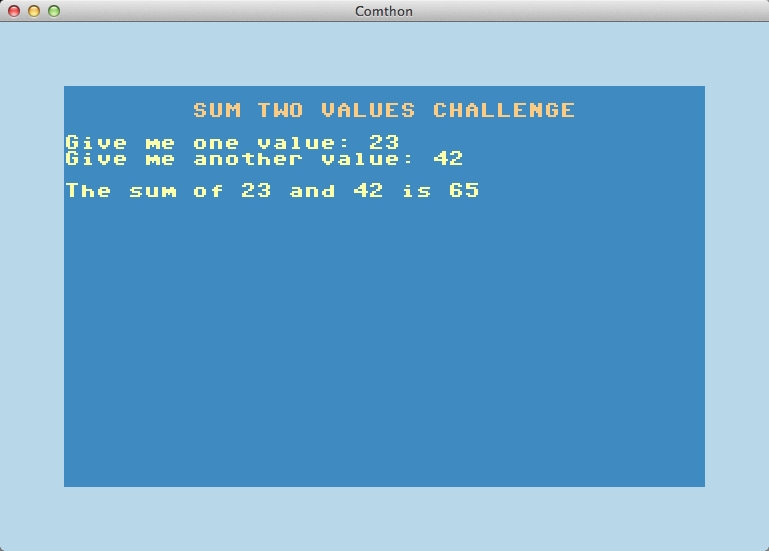
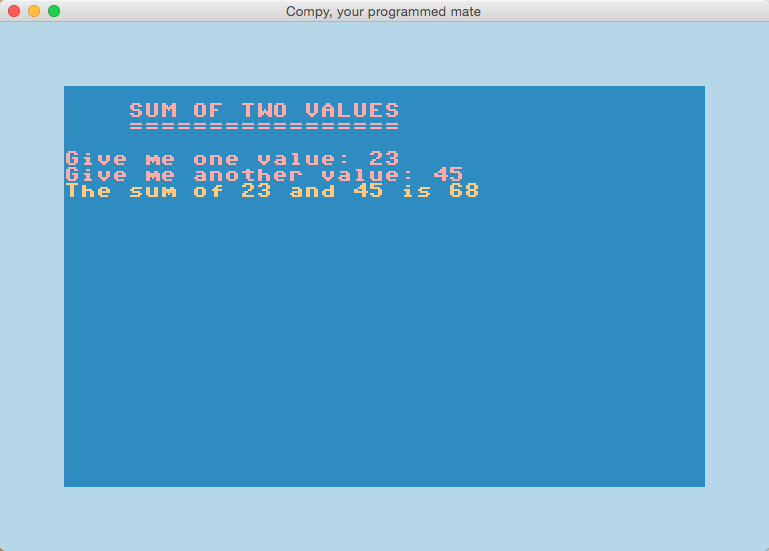
Better web output of challenges

diff --git a/docs/challenges.html b/docs/challenges.html
@@ -1,29 +1,71 @@
-<p>variables</p>
+<!DOCTYPE html>
+<html>
+<head>
+
+<meta http-equiv="Content-Type" content="text/html; charset=utf-8">
+
+<title>Page Title</title>
+
+
+</head>
+
+<body>
 
 <h1>Sum two values</h1>
 
 <p><img src="img/sum_two_values.png" alt="" /></p>
 
-<h1>Sum many values</h1>
+variables
 
-<h1>Sum two lists of values</h1>
 
-<h1>Find the minimum of two values</h1>
+<div class="highlight"><pre><span class="c">#!/usr/bin/env python</span>
+<span class="c">#  -*- coding: utf-8 -*-</span>
 
-<h1>Find max of many values</h1>
 
-<h1>Find number of vowels</h1>
+<span class="kn">from</span> <span class="nn">time</span> <span class="kn">import</span> <span class="n">sleep</span>
+<span class="kn">from</span> <span class="nn">src.run</span> <span class="kn">import</span> <span class="n">run</span>
 
-<h1>Pinta la tabla de multiplicar del número que sea</h1>
+<span class="k">def</span> <span class="nf">main</span><span class="p">(</span><span class="n">scrn</span><span class="p">):</span>
+    <span class="n">sleep</span><span class="p">(</span><span class="mi">2</span><span class="p">)</span> <span class="c"># wait two seconds</span>
+    <span class="n">scrn</span><span class="o">.</span><span class="n">clear_screen</span><span class="p">()</span>
+    <span class="n">scrn</span><span class="o">.</span><span class="n">printf</span><span class="p">()</span>
+    <span class="n">scrn</span><span class="o">.</span><span class="n">printf</span><span class="p">(</span><span class="s">&#39;    SUM OF TWO VALUES&#39;</span><span class="p">,</span> <span class="n">color</span> <span class="o">=</span> <span class="mi">4</span><span class="p">)</span>
+    <span class="n">scrn</span><span class="o">.</span><span class="n">printf</span><span class="p">(</span><span class="s">&#39;    =================&#39;</span><span class="p">)</span>
+    <span class="n">scrn</span><span class="o">.</span><span class="n">printf</span><span class="p">()</span>
+    <span class="n">value_one</span> <span class="o">=</span> <span class="n">scrn</span><span class="o">.</span><span class="n">input</span><span class="p">(</span><span class="s">&quot;Give me one value: &quot;</span><span class="p">)</span>
+    <span class="n">value_two</span> <span class="o">=</span> <span class="n">scrn</span><span class="o">.</span><span class="n">input</span><span class="p">(</span><span class="s">&quot;Give me another value: &quot;</span><span class="p">)</span>
+    <span class="n">sum_of_values</span> <span class="o">=</span> <span class="n">value_one</span> <span class="o">+</span> <span class="n">value_two</span>
+    <span class="n">scrn</span><span class="o">.</span><span class="n">printf</span><span class="p">(</span><span class="s">&#39;The sum of {} and {} is {}&#39;</span><span class="o">.</span><span class="n">format</span><span class="p">(</span>
+        <span class="n">value_one</span><span class="p">,</span> <span class="n">value_two</span><span class="p">,</span> <span class="n">sum_of_values</span><span class="p">),</span> <span class="n">color</span><span class="o">=</span><span class="mi">6</span><span class="p">)</span>
 
-<h1>10 elefantes</h1>
 
-<h1>Adivina el número</h1>
+<span class="n">run</span><span class="p">(</span><span class="n">main</span><span class="p">)</span>
+</pre></div>
 
-<h1>Pinta una progresión aritmética.</h1>
 
-<h1>Simula un dado</h1>
+# Sum many values
 
-<h1>El mediano de una lista</h1>
+# Sum two lists of values
 
-<p>#</p>
+# Find the minimum of two values
+
+# Find max of many values
+
+# Find number of vowels
+
+# Pinta la tabla de multiplicar del número que sea
+
+# 10 elefantes
+
+# Adivina el número
+
+# Pinta una progresión aritmética.
+
+# Simula un dado
+
+# El mediano de una lista
+
+#
+
+</body>
+</html>

diff --git a/src/templates/challenges.html b/src/templates/challenges.html
@@ -1,9 +1,25 @@
+<!DOCTYPE html>
+<html>
+<head>
+
+<meta http-equiv="Content-Type" content="text/html; charset=utf-8">
+
+<title>Page Title</title>
 
 
+</head>
 
-# Sum two values
+<body>
 
-![](img/sum_two_values.png)
+<h1>Sum two values</h1>
+
+<p><img src="img/sum_two_values.png" alt="" /></p>
+
+{{ prueba }}
+
+
+{% include 'sum_two_values.html' %}
+
 
 # Sum many values
 
@@ -28,3 +44,6 @@
 # El mediano de una lista
 
 #
+
+</body>
+</html>

diff --git a/src/view_wx.py b/src/view_wx.py
@@ -8,7 +8,7 @@ import wx
 from src.bitmaps import Bitmaps
 from src.create_web import make_html_challenges, take_code, TakeScreenShot
 from src.settings import NUM_COLS, NUM_ROWS, CHAR_PTS_X, CHAR_PTS_Y
-from src.settings import FRAME_PTS_X, FRAME_PTS_Y
+from src.settings import FRAME_PTS_X, FRAME_PTS_Y, TITLE
 
 ORG_ACTIVE_CNVS_X = FRAME_PTS_X
 ORG_ACTIVE_CNVS_Y = FRAME_PTS_Y
@@ -40,7 +40,6 @@ class GUIwx(wx.App):
         # Create a new app, don't redirect stdout/stderr to a window.
         self.cierra_por_esc = False
         self.pinta = None
-        self.name_of_project = ''
         wx.App.__init__(self, False)
 
     def OnInit(self):
@@ -67,7 +66,7 @@ class GUIwx(wx.App):
         frame.SetClientSize((TOTAL_CNVS_PTS_X, TOTAL_CNVS_PTS_Y))
         frame.Bind(wx.EVT_CLOSE, self.OnClose)
         frame.Move((30, 30))  # Pone la ventana arriba a la izquierda
-        frame.SetTitle('Comthon')
+        frame.SetTitle(TITLE)
         return frame
 
     def set_canvas(self, frame):
@@ -94,8 +93,8 @@ class GUIwx(wx.App):
             return
 
         if key == C_RARA:
-            TakeScreenShot(self.name_of_project, self.frame)
-            take_code(self.name_of_project)
+            take_code()
+            TakeScreenShot(self.frame)
             make_html_challenges()
             return
 
@@ -132,15 +131,11 @@ class GUIwx(wx.App):
             elif comando == 'close_window':
                 self.stop()
 
-            elif comando == 'name_of_project':
-                self.name_of_project = args[0]
-                # title = self.name_of_project.replace('_', ' ').upper()
-                # self.frame.SetTitle(title)
+            else:
+                pass
 
         if self.cierra_por_esc:
             self.stop()
-
-
 
 
 class Pinta(object):

diff --git a/src/create_web.py b/src/create_web.py
@@ -5,23 +5,26 @@ import markdown2
 from jinja2 import Environment, PackageLoader
 import wx
 import os
+import __main__
+from pygments import highlight
+from pygments.lexers import PythonLexer
+from pygments.formatters import HtmlFormatter
 
+name_of_project= __main__.__file__.split('/')[-1].replace('.py', '')
 env = Environment(loader=PackageLoader('src', 'templates'))
 
 def make_html_challenges():
 
-    template = env.get_template('challenges.md')
+    template = env.get_template('challenges.html')
 
     md_text = template.render(prueba='variables')
 
-    html_text = markdown2.markdown(md_text)
+    # html_text = markdown2.markdown(md_text)
     f = codecs.open('docs/challenges.html', 'w', 'utf-8')
-    f.write(html_text)
+    f.write(md_text)
     f.close()
 
-def TakeScreenShot(name_of_project, frame):
-    if not name_of_project:
-        return
+def TakeScreenShot(frame):
     os.system('screencapture docs/img/scr.png')
     screen = wx.Bitmap('docs/img/scr.png')
     rect = frame.GetRect()
@@ -31,16 +34,16 @@ def TakeScreenShot(name_of_project, frame):
     fileName = "docs/img/{}.png".format(name_of_project)
     img.SaveFile(fileName, wx.BITMAP_TYPE_PNG)
 
-def take_code(name_of_project):
-    if not name_of_project:
-        return
-    print fn
+def take_code():
+    print name_of_project
     fn = '{}.py'.format(name_of_project)
     f = codecs.open(fn, 'r', 'utf-8')
     code = f.read()
+    code_html = highlight(code, PythonLexer(), HtmlFormatter())
+
     f.close()
 
-    fn = 'docs/{}.ppy'.format(name_of_project)
+    fn = 'src/templates/{}.html'.format(name_of_project)
     f = codecs.open(fn, 'w', 'utf-8')
-    f.write(code)
+    f.write(code_html)
     f.close()

diff --git a/sum_two_values.py b/sum_two_values.py
@@ -1,10 +1,23 @@
 #!/usr/bin/env python
 #  -*- coding: utf-8 -*-
 
+
+from time import sleep
 from src.run import run
 
-def main(src):
-    src.printf('hola')
+def main(scrn):
+    sleep(2) # wait two seconds
+    scrn.clear_screen()
+    scrn.printf()
+    scrn.printf('    SUM OF TWO VALUES', color = 4)
+    scrn.printf('    =================')
+    scrn.printf()
+    value_one = scrn.input("Give me one value: ")
+    value_two = scrn.input("Give me another value: ")
+    sum_of_values = value_one + value_two
+    scrn.printf('The sum of {} and {} is {}'.format(
+        value_one, value_two, sum_of_values), color=6)
+
 
 run(main)
 

diff --git a/src/control.py b/src/control.py
@@ -42,12 +42,6 @@ class Control(object):
 
         # c stands for corrected
 
-    def set_name_of_project(self, name):
-        self._send_to_view('name_of_project', name)
-
-        # c stands for corrected
-
-
     def xyprint(self, x, y, *args):
         string = u''
         for to_chain in args:

diff --git a/src/settings.py b/src/settings.py
@@ -1,7 +1,7 @@
 #!/usr/bin/env python
 # -*- coding: utf-8 -*-
 
-
+TITLE = 'Compy, your programmed mate'
 NUM_COLS = 40
 NUM_ROWS = 25
 
